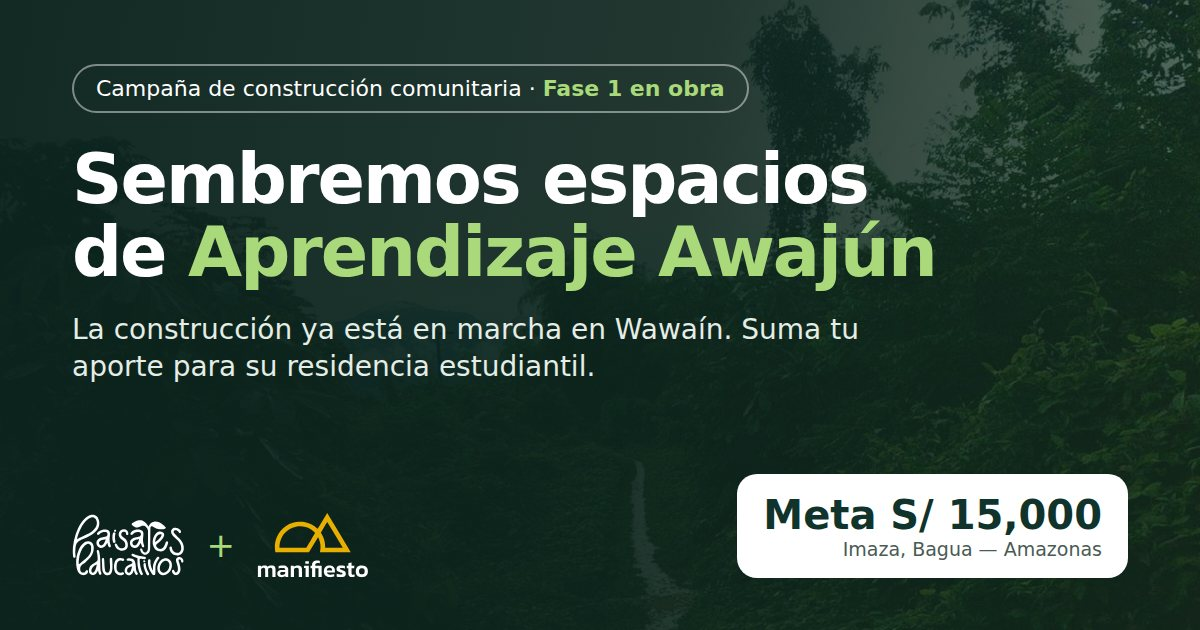
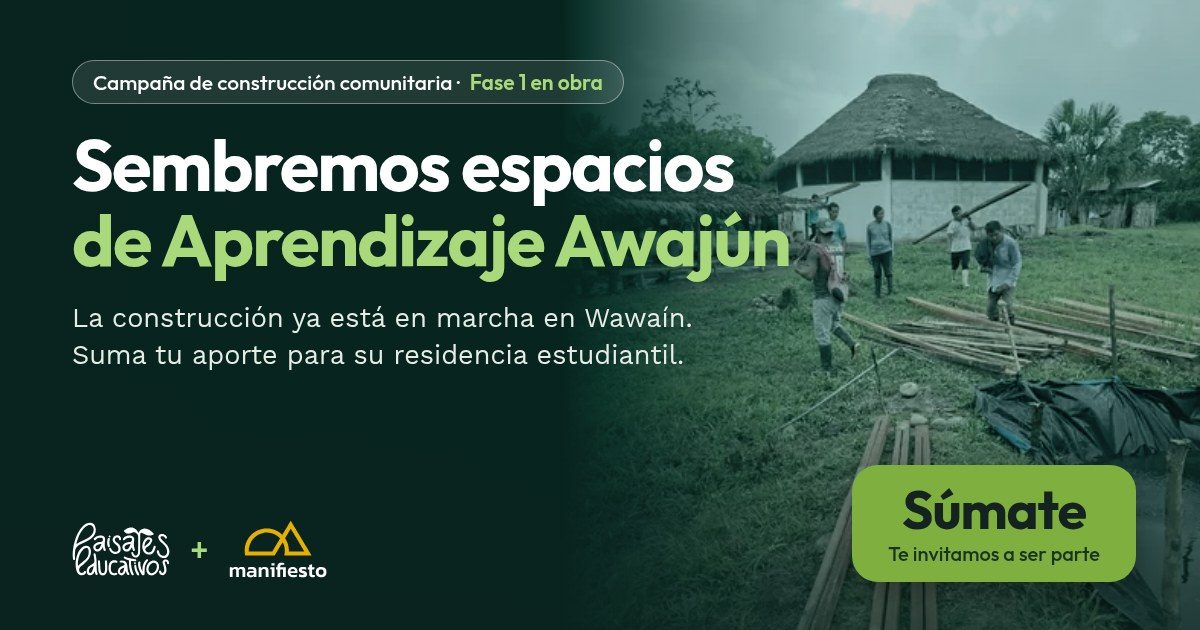
Imagen al compartir el enlace: invitación en lugar de la meta
- Se quita el recuadro "Meta S/ 15,000" y en su lugar va una
  invitación: "Súmate · Te invitamos a ser parte".
- Fondo con la foto de la comunidad y su madera, en el mismo tono
  verde de la portada, con el título en Outfit como en la web.
- og:image apunta a og-image.jpg?v=2 para que WhatsApp y otras redes
  vuelvan a leer la imagen en lugar de mostrar la anterior guardada.

Claude-Session: https://claude.ai/code/session_01WHrWMvfaq2NJDX1hXrNGz8

diff --git a/index.html b/index.html
@@ -11,10 +11,10 @@
 <meta property="og:url" content="https://sembremos-awajun.netlify.app/">
 <meta property="og:title" content="Sembremos espacios de Aprendizaje Awajún">
 <meta property="og:description" content="La construcción ya está en marcha. La comunidad de Wawaín necesita sumar esfuerzos para lograr su residencia estudiantil.">
-<meta property="og:image" content="https://sembremos-awajun.netlify.app/og-image.jpg">
+<meta property="og:image" content="https://sembremos-awajun.netlify.app/og-image.jpg?v=2">
 <meta property="og:image:width" content="1200">
 <meta property="og:image:height" content="630">
-<meta property="og:image:alt" content="Sembremos espacios de Aprendizaje Awajún — campaña de construcción comunitaria">
+<meta property="og:image:alt" content="Sembremos espacios de Aprendizaje Awajún — la comunidad de Wawaín construye su residencia estudiantil. Súmate.">
 <meta name="twitter:card" content="summary_large_image">
 <meta name="theme-color" content="#1F5F54">
 <link rel="icon" href="favicon.svg" type="image/svg+xml">
